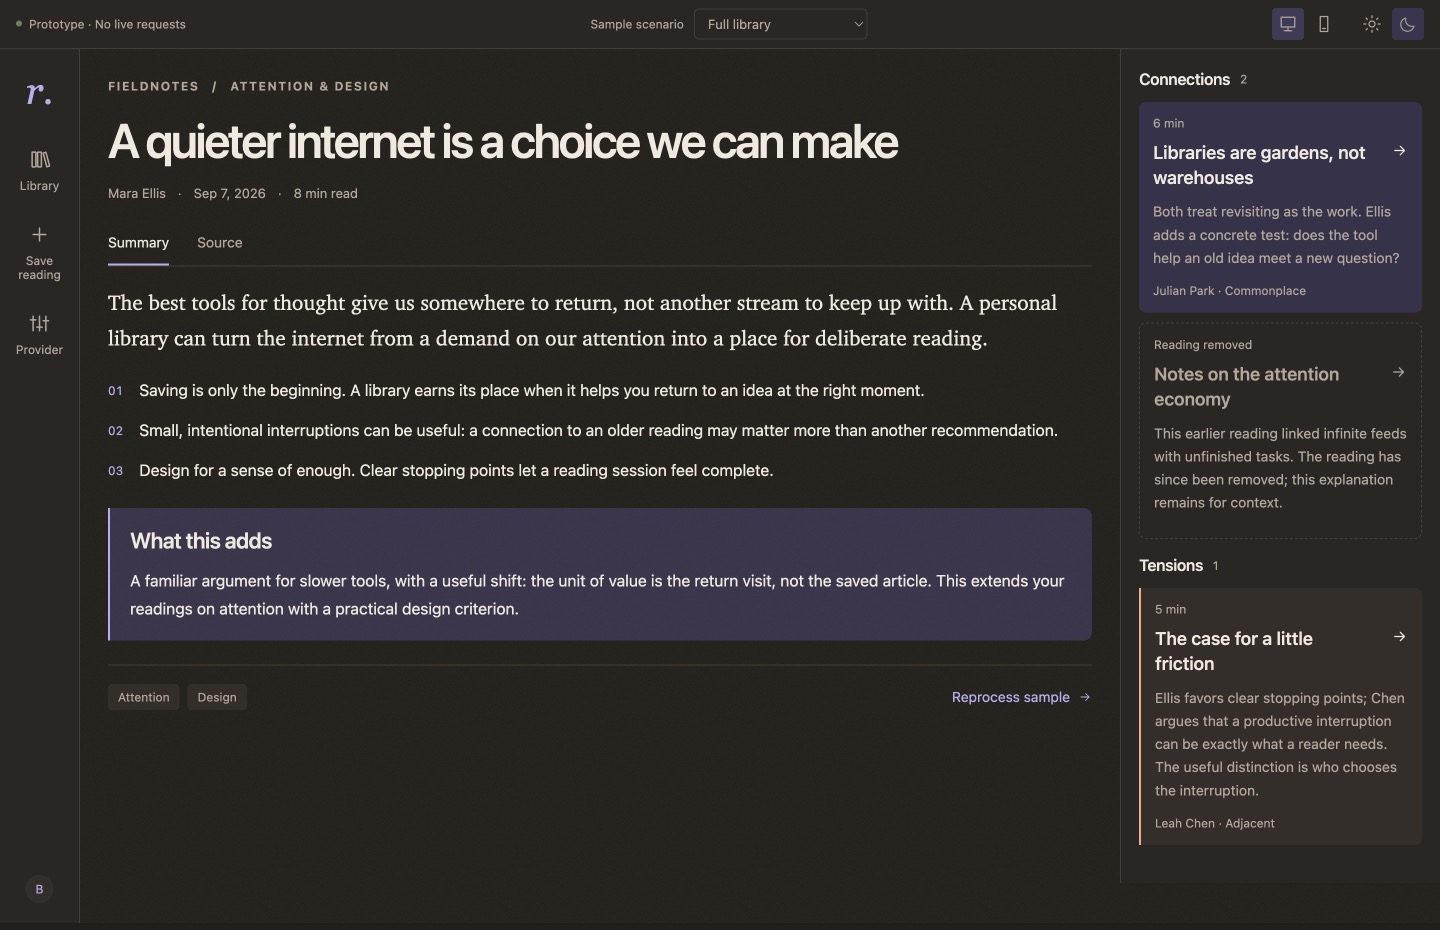
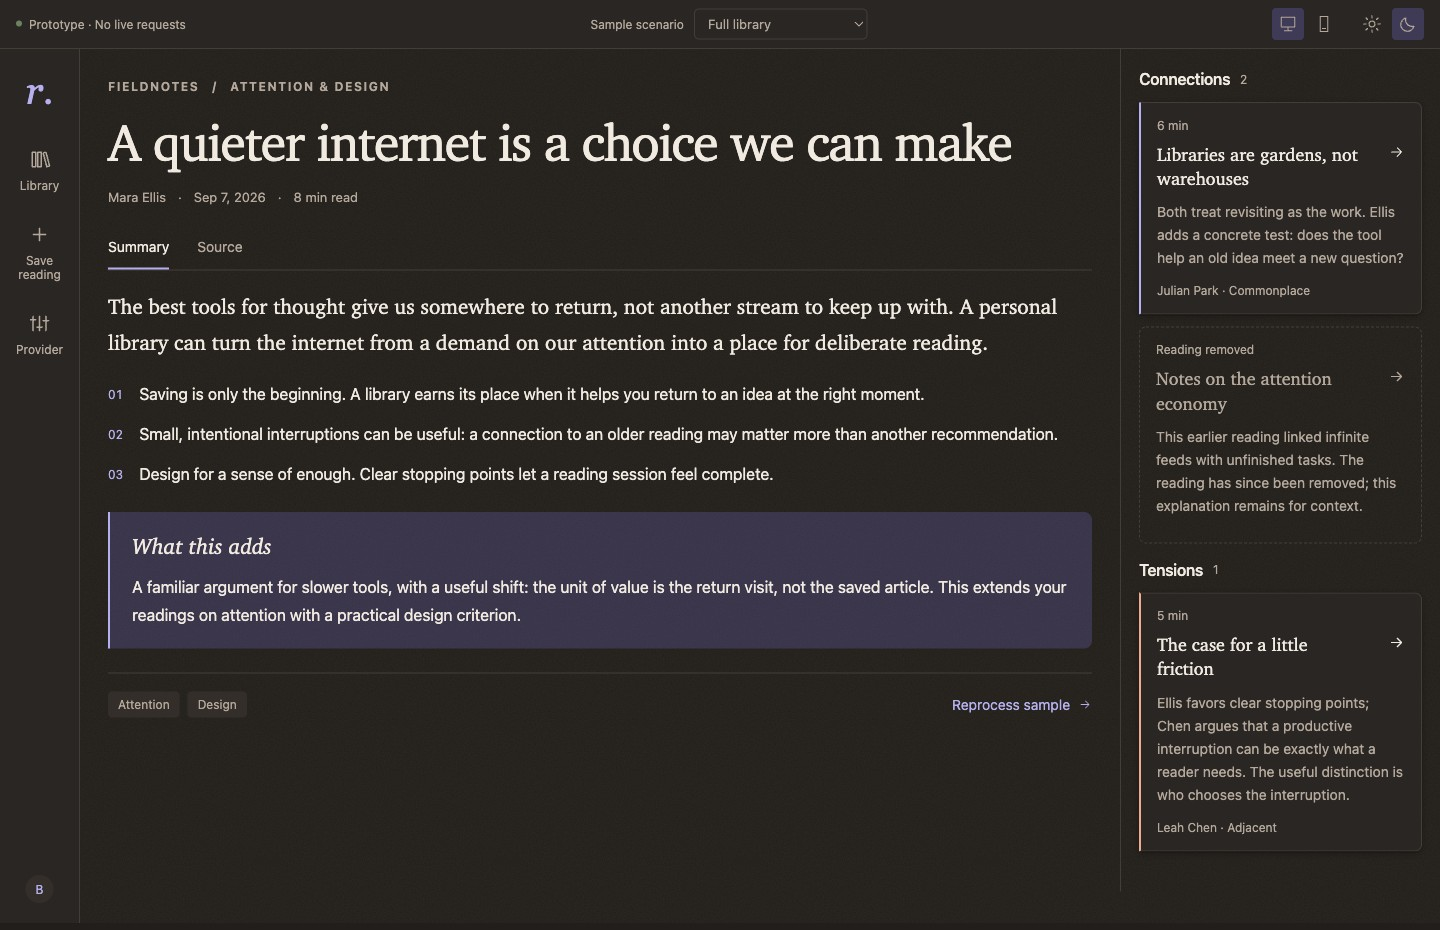
docs(design): recapture the Connected screenshots for the ink-on-paper revision
Recapture all 22 desktop/phone JPEGs against 128c7cd via Chrome DevTools MCP,
replacing the warm-palette captures that predated the serif reading matter and
the paper relationship cards. Each shot starts from a fresh page load, following
the manifest's scenario, route, theme, and viewport, and every image was
inspected against its caption before being written.

Regenerate capture-manifest.json (hashes, dimensions, source commit) and the
walkthrough.html scene data from the new captures. Pixel sizes are unchanged at
1440 x 930 and 390 x 658, so the screenshots.md table needed no edit; the two
manifest step notes that quoted the requested CSS viewport (390 x 844 and
1440 x 1000) now name the captured size, matching what the index already said.

Record the round in validation.md with the prototype test and both prototype
builds, and note that the phone connections shot is taken at the foot of the
page so the return action its caption promises stays in frame at this height.
Point README.md at the new source commit, describe the ink-on-paper revision
alongside the warm one, and drop the design-spec notes saying the screenshots
predate the revision and that phone key-point numbers may still wrap.

diff --git a/docs/design/connected/walkthrough.html b/docs/design/connected/walkthrough.html
@@ -6,7 +6,7 @@
 </style>
 <main><h1>Connected · captured walkthrough</h1>
 <p class="intro">The selected prototype, preserved as 22 captioned states. Step through reading, search, capture, recovery, and phone layouts. Playback advances every five seconds; pause to inspect. This is a screenshot replay, not a continuous video.</p>
-<p class="intro">Source: <a href="https://github.com/brian-bell/reading-lite/commit/dcfe7a04dd04034e581779a53156e0904769a344">dcfe7a0</a> · September 10, 2026 · <a href="README.md">Handoff</a> · <a href="design-spec.md">Specification</a></p>
+<p class="intro">Source: <a href="https://github.com/brian-bell/reading-lite/commit/128c7cdf926cbcbb8206f5b654208aa3456c7d51">128c7cd</a> · September 10, 2026 · <a href="README.md">Handoff</a> · <a href="design-spec.md">Specification</a></p>
 <nav aria-label="Walkthrough controls"><button id="prev">Previous</button><button id="play" aria-pressed="false">Play</button><button id="next">Next</button><label for="scene">Scene</label><select id="scene"><option value="0">01 · Library · desktop</option>
 <option value="1">02 · Reading · desktop</option>
 <option value="2">03 · Source · desktop</option>
@@ -33,7 +33,7 @@
 <noscript><p>Playback requires JavaScript. Every image and caption is available in <a href="screenshots.md">the screenshot index</a>.</p></noscript>
 <footer>Authored sample content only. Preview controls are visible in the captures. Source, screenshots, and decisions are separate evidence: the implementation checklist records what remains unresolved.</footer></main>
 <script>
[2 lines of base64/hex data omitted]
 const el=id=>document.getElementById(id);let index=0,timer=null;
 function stop(){clearInterval(timer);timer=null;el('play').textContent='Play';el('play').setAttribute('aria-pressed','false')}
 function render(){const s=scenes[index];el('title').textContent=s.title;el('caption').textContent=s.steps;el('meta').textContent=`${index+1} of ${scenes.length} · ${s.width} × ${s.height}`;el('shot').src=s.file;el('shot').alt=s.title+'. '+s.steps;el('original').href=s.file;el('scene').value=index;el('prev').disabled=index===0;el('next').disabled=index===scenes.length-1;if(index===scenes.length-1)stop()}

diff --git a/docs/design/connected/validation.md b/docs/design/connected/validation.md
@@ -1,10 +1,43 @@
 # Validation record
 
-September 9, 2026 (original capture); September 10, 2026 (warm-palette recapture).
-Runtime source: `dcfe7a04dd04034e581779a53156e0904769a344`. These results describe
-the local capture environment, not CI.
+September 9, 2026 (original capture); September 10, 2026 (warm-palette
+recapture, then ink-on-paper recapture). The screenshots in this package are the
+ink-on-paper round, captured from
+`128c7cdf926cbcbb8206f5b654208aa3456c7d51`; the two sections below it record
+earlier rounds against the commits they name. These results describe the local
+capture environment, not CI.
 
-## September 10 recapture
+## September 10 ink-on-paper recapture
+
+| Check | Result |
+| --- | --- |
+| `npm run prototype:test` in `web/` | 25/25 passed against the captured commit |
+| `npm run prototype:connected:build` | Passed |
+| `npm run prototype:build` | Passed |
+| Connected browser capture | All 22 JPEGs recaptured via Chrome DevTools MCP at the same 1440 × 930 and 390 × 658 pixel sizes as the previous round; each capture started from a fresh page load, and every image was inspected against its manifest caption |
+| Handoff assets | All 22 hashes and dimensions recomputed into `capture-manifest.json`, with `walkthrough.html` scene data and the `screenshots.md` pixel column regenerated from it; dimensions were unchanged, so the index table needed no edit |
+
+The serif reading matter, the paper relationship cards with their accent-ink (and
+danger) left rules, and the fixed single-line key-point numbers on phone widths
+are all visible in this round's captures.
+
+Two captions required a step correction rather than a different capture. The
+manifest described the phone viewport as 390 × 844 and the unavailable-source
+desktop viewport as 1440 × 1000, which were the requested CSS sizes rather than
+the pixels actually written; both now name the captured size, matching what
+`screenshots.md` already said. The phone connections capture is taken at the
+foot of the page rather than at the smooth-scroll landing point, because at
+390 × 658 the “Back to the reading” action that its caption promises falls just
+below the fold.
+
+This round did not rerun `autoreview` or the production SPA test suite; the
+captured commit changed only prototype CSS and the design spec, not Worker or
+production SPA source. See the September 9 record below for those results.
+
+## September 10 warm-palette recapture
+
+Superseded by the round above. Runtime source for this round:
+`dcfe7a04dd04034e581779a53156e0904769a344`.
 
 | Check | Result |
 | --- | --- |
@@ -50,22 +83,24 @@ and a prompt describing the isolated fixture-only prototype. Review covered the
 runtime/configuration changes before their source checkpoint; subsequent handoff
 prose, screenshot files, and replay received local link/asset and browser checks.
 
-## Capture notes (both rounds)
+## Capture notes (all rounds)
 
 The captures are viewport screenshots, not complete page exports. Long pages
 extend below the image; the phone connection panel has its own scrolled capture.
-Desktop captures request 1440 × 1000 CSS px; phone captures request 390 × 844.
-The saved images are downsampled to the visible content area (1440 × 930 and
-390 × 658), excluding browser chrome outside the CSS viewport. The preview's
-Desktop layout toggle remains selected in both, and the browser viewport drives
-responsiveness. No native phone hardware or Safari/browser matrix was tested.
+Every saved image is 1440 × 930 (desktop) or 390 × 658 (phone), and those pixel
+sizes have held across all three rounds, so the images stay directly comparable.
+Earlier rounds reached them by requesting 1440 × 1000 and 390 × 844 CSS px and
+landing on the smaller visible content area; the ink-on-paper round emulated the
+captured sizes directly. The preview's Desktop layout toggle remains selected
+throughout, and the browser viewport drives responsiveness. No native phone
+hardware or Safari/browser matrix was tested.
 
 The screenshots retain visible prototype controls/disclosures. Sample names and
 article text are authored fixtures. The capture manifest records raw JPEG hashes;
 images have not been retouched. This is visual reference coverage, not an
 accessibility audit, production integration test, or proof of every state.
-The mobile numbered-list wrapping is recorded in the specification as an issue
-to resolve in implementation.
+The mobile numbered-list wrapping seen in the earlier rounds is fixed in the
+captured commit and no longer appears in these images.
 
 Worker tests were not rerun for this frontend prototype/documentation capture.
 No Worker/API/production code, provider calls, deployment, or data migration is

diff --git a/docs/design/connected/README.md b/docs/design/connected/README.md
@@ -1,17 +1,22 @@
 # Connected prototype handoff
 
-Captured September 9, 2026; recaptured September 10, 2026 after a warm-palette
-revision. Brian selected Connected as the direction to continue, then requested
-less decorative copy, tighter whitespace, and a dedicated prototype. This package
-preserves that version for future implementation. It supplies evidence for
+Captured September 9, 2026; recaptured twice on September 10, 2026, after a
+warm-palette revision and then an ink-on-paper revision. Brian selected Connected
+as the direction to continue, then requested less decorative copy, tighter
+whitespace, and a dedicated prototype. This package preserves that version for
+future implementation. It supplies evidence for
 [Phase 2, issue #337](https://github.com/brian-bell/reading-lite/issues/337); its
 remaining design decisions still need review.
 
-The September 10 revision moves the light-mode surfaces from white and pale stone
-to parchment and cream, adds a tiled paper grain to the page and novelty panel,
+The warm revision moves the light-mode surfaces from white and pale stone to
+parchment and cream, adds a tiled paper grain to the page and novelty panel,
 gives cards a faint warm shadow, and prefers Charter/Iowan Old Style for the lead
-and source text. See the [design specification](design-spec.md#color-tokens) for
-the full token table.
+and source text. The ink-on-paper revision that followed sets every piece of
+reading matter — reading and page titles, library card titles, relationship
+titles, and content headings — in that same serif at weight 400, leaving Inter
+for UI chrome, and replaces the filled relationship blocks with paper cards
+carrying an accent-ink left rule. See the
+[design specification](design-spec.md#color-tokens) for the full token table.
 
 ## Start here
 
@@ -31,7 +36,7 @@ the full token table.
 ## Frozen source
 
 The runnable reference is commit
-[`dcfe7a0`](https://github.com/brian-bell/reading-lite/commit/dcfe7a04dd04034e581779a53156e0904769a344).
+[`128c7cd`](https://github.com/brian-bell/reading-lite/commit/128c7cdf926cbcbb8206f5b654208aa3456c7d51).
 All screenshots in this package represent that commit's runtime source.
 The handoff documentation is committed afterward so it can name the exact source
 revision without a circular self-reference.
@@ -48,7 +53,7 @@ To inspect the frozen version without changing an active checkout, run from the
 repository root, choosing an unused sibling directory:
 
 ```sh
-git worktree add --detach ../reading-lite-connected-reference dcfe7a04dd04034e581779a53156e0904769a344
+git worktree add --detach ../reading-lite-connected-reference 128c7cdf926cbcbb8206f5b654208aa3456c7d51
 cd ../reading-lite-connected-reference/web
 npm ci
 npm run prototype:connected:dev

diff --git a/docs/design/connected/design-spec.md b/docs/design/connected/design-spec.md
@@ -59,8 +59,8 @@ The source of exact cascade behavior is
 and [dedicated frame rules](../../../web/prototypes/connected/styles.css).
 System font differences can change wrapping. An earlier rough edge — key-point
 numbers such as “01” wrapping onto two lines on narrow phones — is fixed
-(`white-space: nowrap` on the number); screenshots captured before
-September 10 may still show it.
+(`white-space: nowrap` on the number), and the current phone screenshots show
+the corrected rendering.
 
 ## Color tokens
 
@@ -87,7 +87,7 @@ chrome (navigation, badges, labels, controls). Relationship cards changed from
 filled accent-soft blocks to paper cards with a hairline border and an
 accent-ink left rule (danger ink for tensions) on a transparent context panel,
 and card hovers replaced the global brightness filter with a border/title
-color shift toward accent. Screenshots predate this revision.
+color shift toward accent. The screenshots reflect this revision.
 
 Connections use a paper card with an accent left rule. Tensions use the same
 card with a danger left rule and an explicit Tensions heading. Removed
